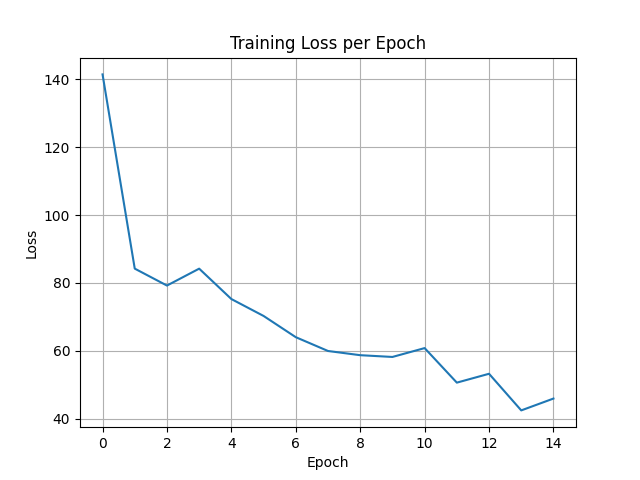
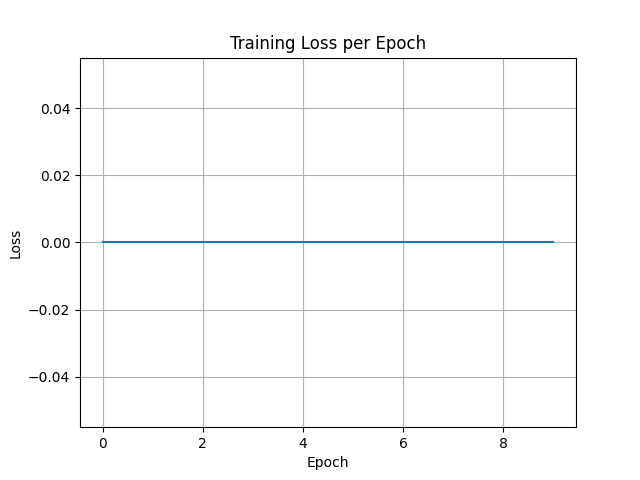
FIXED DATA LEAK

diff --git a/model_pyg.py b/model_pyg.py
@@ -1,4 +1,5 @@
 import os
+import random
 
 import torch
 import torch.nn as nn
@@ -66,6 +67,33 @@ def print_pyg_diagnostics(data: HeteroData):
               f"dst_dim={None if dst_x is None else dst_x.size(1)}")
     print("\n================ END DIAGNOSTICS ================\n")
 
+def sample_global_negatives_for_playlist(
+    pid: int,
+    num_tracks: int,
+    positives_set,
+    m: int,
+    device,
+):
+    # Sample m track ids uniformly from [0, num_tracks)
+    # excluding positives. (Allows repeats avoidance via while.)
+    negs = []
+    tries = 0
+    max_tries = max(1000, m * 50)
+
+    while len(negs) < m and tries < max_tries:
+        cand = random.randrange(num_tracks)
+        if cand not in positives_set:
+            negs.append(cand)
+        tries += 1
+
+    if len(negs) < m:
+        # fallback: just return what we got (better than crashing mid-train)
+        # but you can raise if you prefer
+        pass
+
+    return torch.tensor(negs, dtype=torch.long, device=device)
+
+
 def print_playlist_track_ranking(builder, train_tracks_by_playlist, playlist_emb, track_emb, K=20):
     from collections import defaultdict
     import torch
@@ -125,7 +153,7 @@ class HeteroGNN(nn.Module):
         # conv1: input -> hidden
         self.conv1 = HeteroConv(
             {
-                (src, rel, dst): SAGEConv(in_channels_dict[src], hidden_channels)
+                (src, rel, dst): SAGEConv(in_channels_dict[src], hidden_channels, normalize=True)
                 for (src, rel, dst) in self.edge_types
             },
             aggr='mean'
@@ -134,13 +162,11 @@ class HeteroGNN(nn.Module):
         # conv2: hidden -> out
         self.conv2 = HeteroConv(
             {
-                (src, rel, dst): SAGEConv(hidden_channels, out_channels)
+                (src, rel, dst): SAGEConv(hidden_channels, out_channels, normalize=True)
                 for (src, rel, dst) in self.edge_types
             },
             aggr='mean'
         )
-        self.norm1 = nn.ModuleDict({nt: nn.LayerNorm(hidden_channels) for nt in metadata[0]})
-        self.norm2 = nn.ModuleDict({nt: nn.LayerNorm(out_channels) for nt in metadata[0]})
 
         self.res_proj = nn.ModuleDict({
             ntype: nn.Linear(hidden_channels, out_channels) for ntype in node_types
@@ -155,21 +181,43 @@ class HeteroGNN(nn.Module):
         # ----- Conv1: input -> hidden -----
         x1 = self.conv1(x_dict, edge_index_dict)
         x1 = {
-            k: F.dropout(F.relu(self.norm1[k](v)), p=self.dropout, training=self.training)
+            k: F.dropout(F.relu(v), p=self.dropout, training=self.training)
             for k, v in x1.items()
         }
 
         # ----- Conv2: hidden -> out with residual -----
         x2 = self.conv2(x1, edge_index_dict)
         x2 = {
-            k: self.norm2[k](v + self.res_proj[k](x1[k]))
+            k: v + self.res_proj[k](x1[k])
             for k, v in x2.items()
         }
 
-        # ----- Optional final linear projection -----
-        out = {k: self.post_lin[k](v) for k, v in x2.items()}
+        return x2
 
-        return out
+        # ----- Optional final linear projection -----
+        # out = {k: self.post_lin[k](v) for k, v in x2.items()}
+        #
+        # return out
+
+
+def check_train_test_overlap(train_data, test_data, edge_type=('Playlist', 'Has Track', 'Track')):
+    # Train positives
+    train_mask = train_data[edge_type].edge_label == 1
+    train_edges = set(tuple(x.tolist()) for x in train_data[edge_type].edge_label_index[:, train_mask].t())
+
+    # Test positives
+    test_mask = test_data[edge_type].edge_label == 1
+    test_edges = set(tuple(x.tolist()) for x in test_data[edge_type].edge_label_index[:, test_mask].t())
+
+    # Include reversed edges
+    rev_train_edges = set((dst, src) for src, dst in train_edges)
+    rev_test_edges = set((dst, src) for src, dst in test_edges)
+
+    all_train_edges = train_edges.union(rev_train_edges)
+    all_test_edges = test_edges.union(rev_test_edges)
+
+    overlap = all_train_edges.intersection(all_test_edges)
+    print("Number of overlapping POSITIVE edges (including reversed):", len(overlap))
 
 # -------------------------
 # Main usage
@@ -183,27 +231,30 @@ if __name__ == "__main__":
 
     # print_pyg_diagnostics(data)
 
-    transform = T.Compose([T.ToUndirected()])
-    data = transform(data)
+    transform = T.Compose([T.NormalizeFeatures(),
+                           T.ToUndirected(),
+                           T.RandomLinkSplit(
+                                num_val=0.1,
+                                num_test=0.2,
+                                is_undirected=True,
+                                add_negative_train_samples=False,
+                                disjoint_train_ratio=0.0,
+                                neg_sampling_ratio=5,
+                                edge_types=[pt],
+                                rev_edge_types=[rev_pt]
+                            )
+                           ])
+    train_data, val_data, test_data = transform(data)
     print_pyg_diagnostics(data)
 
-    split = T.RandomLinkSplit(
-        num_val=0.0,
-        num_test=0.1,
-        is_undirected=True,
-        key="edge_label",
-        add_negative_train_samples=True,
-        disjoint_train_ratio=0.0,
-        neg_sampling_ratio=20,
-        edge_types=[pt],
-        rev_edge_types=[rev_pt]
-    )
-    train_data, val_data, test_data = split(data)
+
     print("TRAIN")
     print(train_data)
 
+
     print("TEST")
     print(test_data)
+
     # Build model from final metadata
     in_dims = {ntype: train_data[ntype].x.size(1) for ntype in data.node_types}
     device = torch.device('cuda' if torch.cuda.is_available() else 'cpu')
@@ -214,7 +265,7 @@ if __name__ == "__main__":
                       dropout=0.2)
 
     model.to(device)
-    optimizer = torch.optim.Adam(model.parameters(), lr=1e-3, weight_decay=1e-4)
+    optimizer = torch.optim.Adam(model.parameters(), lr=1e-3, weight_decay=1e-5)
 
 
     # Move all data to device
@@ -228,9 +279,9 @@ if __name__ == "__main__":
     # Node counts for negative sampling
     node_counts = {ntype: train_data[ntype].num_nodes for ntype in train_data.node_types}
 
-    batch_size = 256
-    epochs = 15
-    num_neighbors = [50, 25]
+    batch_size = 1024
+    epochs = 10
+    num_neighbors = [15, 10]
     seed_node_type = None
     target_edge = "Playlist" ,"Has Track", "Track"
 
@@ -243,27 +294,6 @@ if __name__ == "__main__":
 
     test_edge_label_index = test_data[target_edge].edge_label_index
     test_edge_label = test_data[target_edge].edge_label
-
-
-    def check_train_test_overlap(train_data, test_data, edge_type=('Playlist', 'Has Track', 'Track')):
-        # Train positives
-        train_mask = train_data[edge_type].edge_label == 1
-        train_edges = set(tuple(x.tolist()) for x in train_data[edge_type].edge_label_index[:, train_mask].t())
-
-        # Test positives
-        test_mask = test_data[edge_type].edge_label == 1
-        test_edges = set(tuple(x.tolist()) for x in test_data[edge_type].edge_label_index[:, test_mask].t())
-
-        # Include reversed edges
-        rev_train_edges = set((dst, src) for src, dst in train_edges)
-        rev_test_edges = set((dst, src) for src, dst in test_edges)
-
-        all_train_edges = train_edges.union(rev_train_edges)
-        all_test_edges = test_edges.union(rev_test_edges)
-
-        overlap = all_train_edges.intersection(all_test_edges)
-        print("Number of overlapping POSITIVE edges (including reversed):", len(overlap))
-
 
     check_train_test_overlap(train_data, test_data)
 
@@ -291,9 +321,16 @@ if __name__ == "__main__":
         edge_label=test_edge_label,
         num_neighbors=num_neighbors,
     )
-    criterion = nn.TripletMarginLoss(margin=1.0)
 
     epoch_losses = []
+
+    p_idx_train, t_idx_train = train_data[pt].edge_label_index
+    labels_train = train_data[pt].edge_label
+
+    train_tracks_by_playlist = defaultdict(set)
+    for pid, tid, lbl in zip(p_idx_train.tolist(), t_idx_train.tolist(), labels_train.tolist()):
+        if lbl == 1:
+            train_tracks_by_playlist[pid].add(tid)
 
     for epoch in range(1, epochs + 1):
         model.train()
@@ -303,6 +340,17 @@ if __name__ == "__main__":
 
         batch_count = 0
         skipped_count = 0
+
+        used_batches = 0
+        pairs_used = 0
+
+        pos_mean_sum = 0.0
+        neg_mean_sum = 0.0
+        margin_mean_sum = 0.0
+
+        # optional: for crude AUC on sampled pairs
+        auc_correct = 0
+        auc_total = 0
 
         for batch in trainloader:
             # diagnose_batch(model, batch, target_edge, device)
@@ -323,6 +371,9 @@ if __name__ == "__main__":
             # get corresponding playlists and tracks embeddings
             z_p = out['Playlist'][p_idx]
             z_t = out['Track'][t_idx]
+            z_p = F.normalize(z_p, dim=1)
+            z_t = F.normalize(z_t, dim=1)
+
             scores = (z_p * z_t).sum(dim=1)
 
             pos_by_playlist = defaultdict(list)
@@ -342,17 +393,18 @@ if __name__ == "__main__":
             neg_scores = []
 
             for pid in pos_by_playlist:
-                # add only scores that have negative
                 if pid not in neg_by_playlist:
                     continue
 
+                # stack negatives for this playlist
+                negs = torch.stack(neg_by_playlist[pid])  # shape: [num_neg]
+
+                # take hardest negative (highest score)
+                hardest_neg = negs.max()
+
                 for ps in pos_by_playlist[pid]:
-                    # add random negative link for that playlist
-                    ns = neg_by_playlist[pid][
-                        torch.randint(0, len(neg_by_playlist[pid]), (1,))
-                    ]
                     pos_scores.append(ps)
-                    neg_scores.append(ns)
+                    neg_scores.append(hardest_neg)
 
 
             if len(pos_scores) == 0:
@@ -363,16 +415,51 @@ if __name__ == "__main__":
             pos_scores = torch.stack(pos_scores)
             neg_scores = torch.stack(neg_scores)
 
-            # BPR loss
-            loss = F.softplus(-(pos_scores - neg_scores)).mean()
+            used_batches += 1
+            pairs_used += pos_scores.numel()
+
+            pos_m = pos_scores.mean().item()
+            neg_m = neg_scores.mean().item()
+            margin_m = (pos_scores - neg_scores).mean().item()
+
+            pos_mean_sum += pos_m
+            neg_mean_sum += neg_m
+            margin_mean_sum += margin_m
+
+            # optional AUC over sampled pairs: fraction where pos > neg
+            auc_correct += (pos_scores > neg_scores).sum().item()
+            auc_total += pos_scores.numel()
+
+            loss = F.softplus(-(pos_scores - neg_scores)).mean()  # stable BPR)
 
             loss.backward()
             optimizer.step()
             # print(f"Batch loss {float(loss)}")
             total_loss_epoch += float(loss)
 
-        print(f"Epoch {epoch:03d} | Loss: {total_loss_epoch:.4f}"
-              f"Skipped {skipped_count}/{batch_count}")
+        avg_loss_used = total_loss_epoch / max(1, used_batches)
+        avg_pos = pos_mean_sum / max(1, used_batches)
+        avg_neg = neg_mean_sum / max(1, used_batches)
+        avg_margin = margin_mean_sum / max(1, used_batches)
+        auc = auc_correct / max(1, auc_total)
+
+        print(
+            f"Epoch {epoch:03d} | "
+            f"Loss(sum): {total_loss_epoch:.4f} | Loss/used_batch: {avg_loss_used:.4f} | "
+            f"pairs: {pairs_used} | "
+            f"pos_mean: {avg_pos:.4f} | neg_mean: {avg_neg:.4f} | margin: {avg_margin:.4f} | "
+            f"AUC~: {auc:.4f} | "
+            f"Skipped {skipped_count}/{batch_count}"
+        )
+
+        model.eval()
+        with torch.no_grad():
+            out = model(train_data.x_dict, train_data.edge_index_dict)
+            print("Epoch", epoch,
+                  "| Std Track:", out['Track'].std(dim=0).mean().item(),
+                  "| Std Playlist:", out['Playlist'].std(dim=0).mean().item())
+
+        model.train()
         epoch_losses.append(total_loss_epoch)
 
     plt.plot(epoch_losses)
@@ -399,10 +486,9 @@ if __name__ == "__main__":
 
         out = model(train_data.x_dict, train_data.edge_index_dict)
 
-        playlist_emb = out['Playlist']
+        playlist_emb = F.normalize(out['Playlist'], dim=1)
+        track_emb = F.normalize(out['Track'], dim=1)
 
-        # Track embeddings (only those in training set)
-        track_emb = out["Track"]
         track_ids = torch.arange(track_emb.size(0), device=device)
 
         test_edge_type = ('Playlist', 'Has Track', 'Track')
@@ -419,7 +505,7 @@ if __name__ == "__main__":
         for pid, tid in zip(p_idx_pos.tolist(), t_idx_pos.tolist()):
             gt_tracks_by_playlist[pid].append(tid)
 
-        K = 20
+        K = 100
         hit_count = 0
         recall_sum = 0
         num_playlists = len(gt_tracks_by_playlist)

diff --git a/build_graph_network.py b/build_graph_network.py
@@ -100,7 +100,7 @@ class SpotifyHeteroGraphBuilder:
 
     def build_heterograph(self):
         data = HeteroData()
-        max_feature_list_len = 512
+        max_feature_list_len = 256
 
         # -------------------------
         # 1. Add edges (PyG style)
